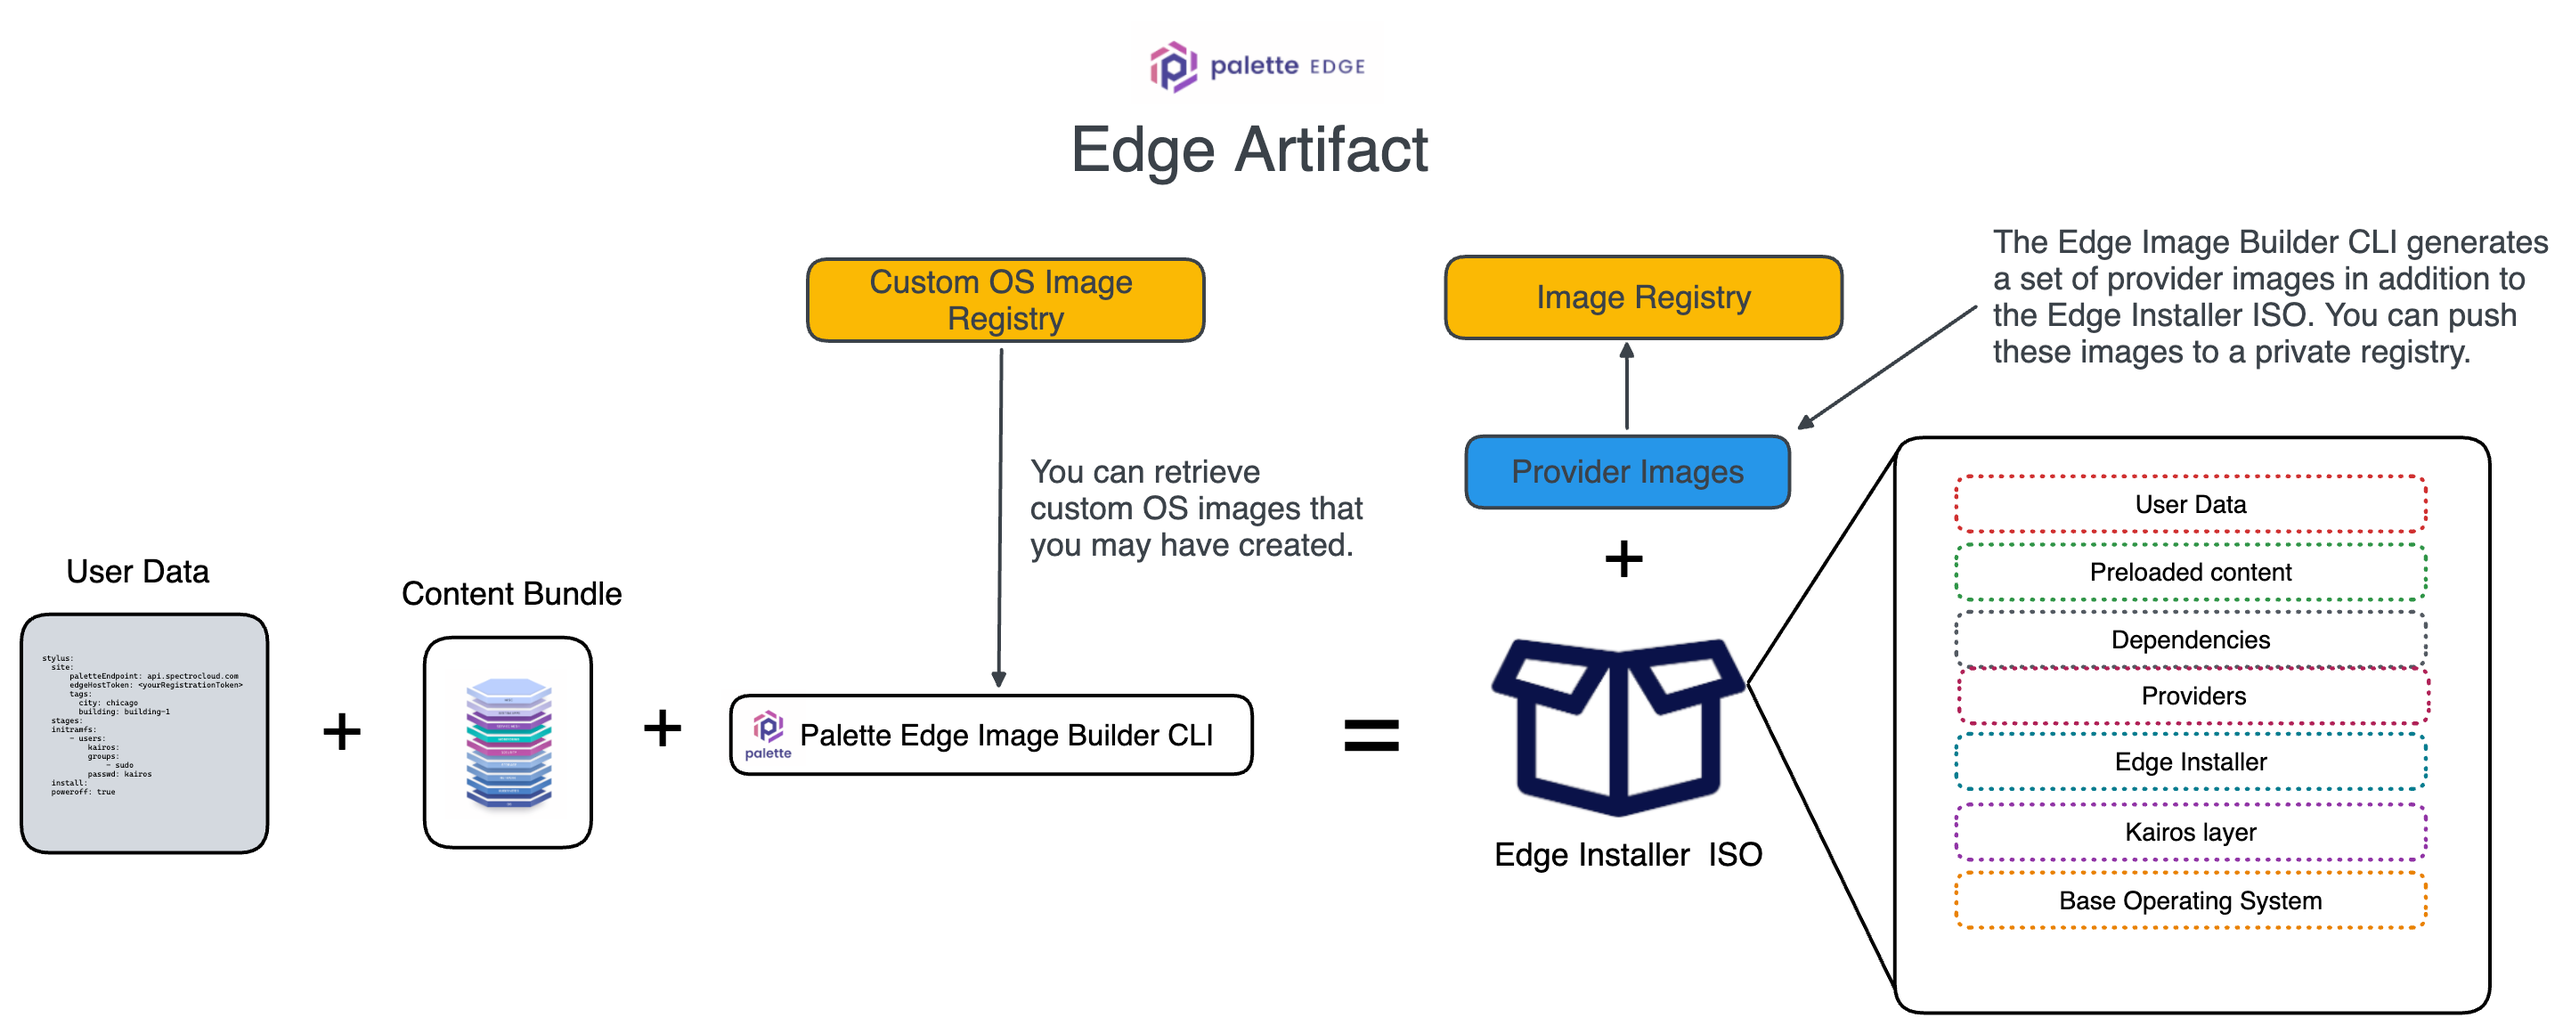
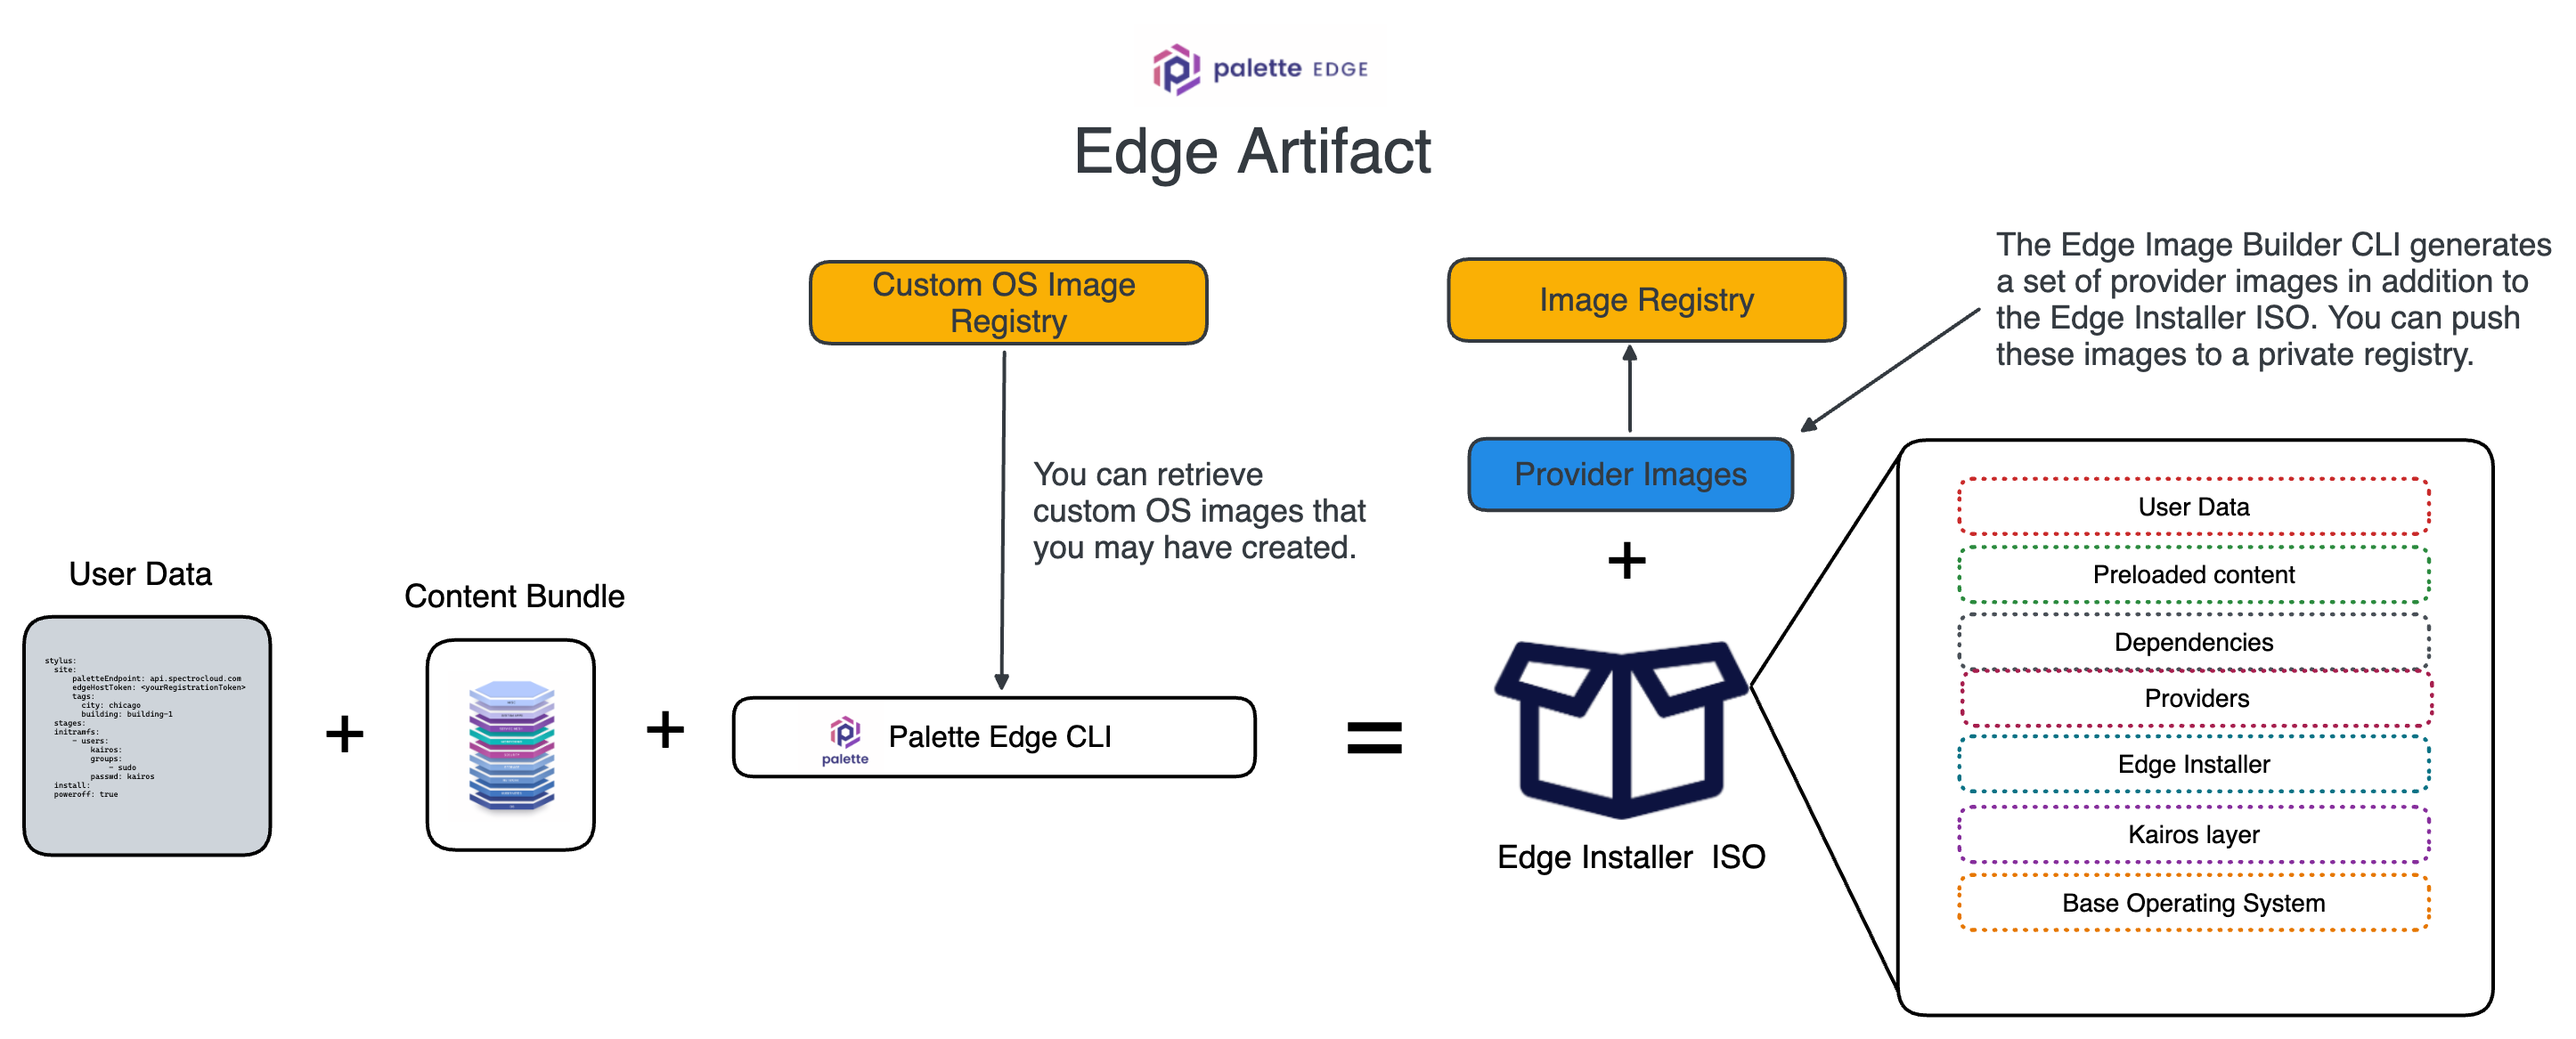
chore: minor updates

diff --git a/content/docs/04-clusters/03-edge/09-site-deployment/01-model-profile.md b/content/docs/04-clusters/03-edge/09-site-deployment/01-model-profile.md
@@ -29,7 +29,13 @@ You define these components in an Edge Native Infrastructure profile. As with an
 
 
 
-The following steps will guide you on how to create a cluster profile for Edge.
+The following steps will guide you on how to create a cluster profile for Edge. Choose the tab that matches your use case.
+
+
+<br />
+
+<Tabs>
+<Tabs.TabPane tab="Custom OS" key="custom-os">
 
 ## Prerequisites
 
@@ -39,56 +45,71 @@ The following steps will guide you on how to create a cluster profile for Edge.
 ## Enablement
 
 
-1. Log in to [Palette](https://console.spectrocloud.com) as a tenant admin.
+1. Log in to [Palette](https://console.spectrocloud.com).
 
 
-2. Navigate to the left **Main Menu** and select **Profiles**.
+2. Choose the desired scope, project or **Tenant Admin**.
 
 
-3. Click on **Add Cluster Profile**. 
+3. Navigate to the left **Main Menu** and select **Profiles**.
 
 
-4. Provide **Basic Information**, such as profile name, description, and tags. Select **Full** and click on **Next**.
+4. Click on **Add Cluster Profile**. 
 
 
-5. Select **Edge Native** as the **Cloud Type** and click on **Next**.
+5. Provide **Basic Information**, such as profile name, description, and tags. Select **Full** and click on **Next**.
 
 
-6. Select **Public Repo** in the **Registry field**.
+6. Select **Edge Native** as the **Cloud Type** and click on **Next**.
 
 
-7. Select **BYOS Edge OS** in the **Pack Name** field and the pack version. 
+7. Select **Public Repo** in the **Registry field**.
 
 
-8. Click on the code editor button  **</\>** to open up the editor
+8. Select **BYOS Edge OS** in the **Pack Name** field and the pack version. 
 
 
-8. The pack editor is displayed, and you can customize the **BYOS Edge OS** pack as needed. 
+9. Click on the code editor button  **</\>** to open up the editor
+
+  <br />
+
+  ![A view of the Kubernetes pack editior with a YAML configuration](/clusters_site-deployment_model-profile_byoos-pack-yaml.png)
 
 
-Example BYOOS Pack Customization File
-
-<br />
-
-```yaml
-pack:
- content:
-   images: 
-    - image: custom-image:v1.3.5
-    
-options: 
- system.uri: example.com/images/custom-image:v1.3.5
-```
+10. In the pack editor, you must update the `system.uri` parameter. Use the custom OS image you created in the EdgeForge process. Refer to the EdgeForge [Build Images](/clusters/edge/edgeforge-workflow/build-images) guide if you are missing a custom OS image. The following is an example configuration using a custom OS image.
 
 
-<br />
+  <br />
 
-Refer to the [BYOOS Pack](/) resource to learn more about the pack details.
-<br />
+  ```yaml
+  pack:
+  content:
+    images: 
+      - image: '{{.spectro.pack.edge-native-byoi.options.system.uri}}'
+      # - image: example.io/my-other-images/example:v1.0.0 
+      # - image: example.io/my-super-other-images/example:v1.0.0 
+      
+  options: 
+  system.uri: example.io/my-images/example-custom-os:v1.4.5
+  ```
 
-9. Review your custom BYOOS pack, and close the updated pack editor. Click on the **Next layer** to configure the Kubernetes layer. 
+  <br />
 
-You have successfully configured the BYOOS pack to update your custom images to build the Edge cluster profile. 
+  <InfoBox>
+
+   You can specify additional images that you may have created that are part of the content bundle. Specify any additional image required by the cluster profile in the `images` section. Add an `- image: ` entry for each image you need to specify. Refer to the [BYOOS Pack](/integrations/byoos) resource to learn more about the pack details.
+
+  </InfoBox>
+
+
+11. Click on the **Next layer** to continue.
+
+
+
+12. Complete the remainder of the cluster profile creation process by filling out the remaining layers.
+
+
+You have successfully created a cluster profile that you can use to deploy Edge clusters. 
 
 ## Validation
 
@@ -103,20 +124,16 @@ Verify you created a cluster profile for Edge hosts by using the following steps
 3. Navigate to the left **Main Menu** and select **Profiles**.
 
 
-4. Use the **Cloud Types drop-down Menu** and select **Edge Native**.
+4. Use the **Cloud Types** **drop-down Menu** and select **Edge Native**.
 
 
 5. Your newly created cluster profile is displayed along with other cluster profiles of the same type.
 
-<!-- </Tabs.TabPane> -->
 
+</Tabs.TabPane>
 
-<!-- 
 
 <Tabs.TabPane tab="Without Custom OS" key="without-os">
-
-
-Use the following steps to create a cluster profile for Edge hosts.
 
 ## Prerequisites
 
@@ -187,7 +204,10 @@ Verify you created a cluster profile for Edge hosts by using the following steps
 
 </Tabs.TabPane>
 
-</Tabs> -->
+</Tabs>
+
+
+
 
 # Next Steps
 

diff --git a/content/docs/04-clusters/03-edge/04-edgeforge-workflow/04-build-images.md b/content/docs/04-clusters/03-edge/04-edgeforge-workflow/04-build-images.md
@@ -13,7 +13,7 @@ import PointsOfInterest from 'shared/components/common/PointOfInterest';
 
 # Overview
 
-You can use the Edge Installer CLI to create an Edge artifact. The Edge artifacts will include everything you may have created up to this point.
+You can use the Palette Edge CLI to create an Edge artifact. The Edge artifacts will include everything you may have created up to this point.
 
 <br />
 
@@ -26,7 +26,7 @@ You can use the Edge Installer CLI to create an Edge artifact. The Edge artifact
 * User Data
 
 
-![A diagram that illustrates the mentioned pieces making up an Edge artifact created by the Edge Installer CLI](/clusters_edge-forge-workflow_build-images_edge-artifact-result.png)
+![A diagram that illustrates the mentioned pieces making up an Edge artifact created by the Palette Edge CLI](/clusters_edge-forge-workflow_build-images_edge-artifact-result.png)
 
 Use the following steps to create an Edge artifact for your Edge host.
 # Prerequisites
@@ -46,14 +46,14 @@ Choose the workflow that fits your needs.
 <br />
 
 
-1. Download Palette Edge Installer CLI and assign the executable bit.
+1. Download the Palette Edge CLI and assign the executable bit.
    
    <br />
 
     ```shell
-    VERSION=3.3.0
-    wget https://software.spectrocloud.com/stylus/v$VERSION/cli/linux/palette-edge-installer
-    chmod +x palette-edge-installer
+    VERSION=3.4.0
+    wget https://software.spectrocloud.com/stylus/v$VERSION/cli/linux/palette-edge-cli
+    chmod +x palette-edge-cli-linux-amd64
     ```
 
 2. Issue the `show` command to review the list of options for Operating System (OS) distribution and versions, Kubernetes distributions and versions, the Spectro Agent Version, and Kairos version.
@@ -61,7 +61,7 @@ Choose the workflow that fits your needs.
     <br />
 
     ```shell
-    ./palette-edge-installer show
+    ./palette-edge-cli-linux-amd64 show
     ```
 
     ![CLI example output from the show command](/clusters_edge-forge-workflow_build-images_edge-cli-show.png)
@@ -95,7 +95,7 @@ Choose the workflow that fits your needs.
 
 
   ```shell
-   ./palette-edge-installer generate --os-flavor [pick-os] \
+   ./palette-edge-cli-linux-amd64 generate --os-flavor [pick-os] \
    --k8s-flavor [pick-k8s] \
    --output [output directory] \
    --push-image-repository [your registry path] \
@@ -107,7 +107,7 @@ Choose the workflow that fits your needs.
 
   Example:
   ```shell
-   ./palette-edge-installer generate --os-flavor opensuse-leap \
+   ./palette-edge-cli-linux-amd64 generate --os-flavor opensuse-leap \
    --k8s-flavor k3s \
    --output opensuse-k3s \
    --push-image-repository gcr.io/my-registry \
@@ -141,7 +141,7 @@ Choose the workflow that fits your needs.
   Example:
 
   ```shell
-   ./palette-edge-installer generate \
+   ./palette-edge-cli-linux-amd64 generate \
    --base-image-uri quay.io/kairos/core-rockylinux:v1.5.0 \
    --k8s-flavor k3s \ 
    --output rockylinux-k3s \

diff --git a/content/docs/04-clusters/03-edge/04-edgeforge-workflow/02-build-content-bundle.md b/content/docs/04-clusters/03-edge/04-edgeforge-workflow/02-build-content-bundle.md
@@ -44,9 +44,9 @@ Currently, the content bundles include Helm charts and Packs. However, keep in m
     <br />
 
     ```shell
-    VERSION=3.3.0
-    wget https://software.spectrocloud.com/stylus/v$VERSION/cli/linux/palette-edge-content
-    chmod +x palette-edge-content
+    VERSION=3.4.0
+    wget https://software.spectrocloud.com/stylus/v$VERSION/cli/linux/palette-edge-cli-linux-amd64
+    chmod +x palette-edge-cli-linux-amd64
     ```
 
 2. Log in to [Palette](https://console.spectrocloud.com).
@@ -86,7 +86,7 @@ You can find the project id at the top right side corner of the landing page bel
     <br />
 
     ```shell
-    ./palette-edge-content build --api-key <API_KEY> \
+    ./palette-edge-cli-linux-amd64 build --api-key <API_KEY> \
      --project-id <PROJECT_ID> \ 
      --cluster-profile-ids <CLUSTER_PROFILE_ID1,CLUSTER_PROFILE_ID2...> \
      --palette-endpoint <Palette API Endpoint> \
@@ -115,7 +115,7 @@ You can find the project id at the top right side corner of the landing page bel
     INFO[0144] ISO file created successfully
     ```
 
-The result is a content bundle that you can use to preload into your installer. Alternately, you can use the ISO version of the content bundle and transfer it to a USB drive to be used separately at the time of edge host installation.
+The result is a content bundle that you can use to preload into your installer. Alternatively, you can use the ISO version of the content bundle and transfer it to a USB drive to be used separately at the time of edge host installation.
 
 # Validation
 

diff --git a/content/docs/04-clusters/03-edge/02-edge-configuration/35-installer-reference.md b/content/docs/04-clusters/03-edge/02-edge-configuration/35-installer-reference.md
@@ -58,7 +58,7 @@ You can specify the mode the Edge Installer should prepare the installation for.
 - Connected: The site has internet connectivity and the installation is initiated through Palette.
 
 
-- Air-Gapped: The site does not have internet connectivity. The Installation is initiated through the Edge Installer CLI.
+- Air-Gapped: The site does not have internet connectivity. The Installation is initiated through the Palette Edge CLI.
 
 
 | Parameter | Description | 

diff --git a/content/docs/16-spectro-downloads.md b/content/docs/16-spectro-downloads.md
@@ -77,7 +77,7 @@ Palette supports on-prem environments through the Private Cloud Gateway (PCG) co
 The following Edge CLIs and Edge Installer images are available to help you deploy an Edge host. Check out the [Edge](/clusters/edge) page to learn more about deploying an Edge Host
 
 
-## Edge Installer CLI
+## Palette Edge CLI
 
 CLI Version| Operating System |  
 -------|---|

diff --git a/content/docs/16-component.md b/content/docs/16-component.md
@@ -29,7 +29,7 @@ This page lists the version details of various Palette components and their resp
 |Release 2.7.0     |2.7.0 |
 |Release 2.6.0     |2.6.0 |
 
-# Edge Installer CLI Versions
+# Palette Edge CLI Versions
 
 |Palette Release|CLI Version| 
 |---|-------|
